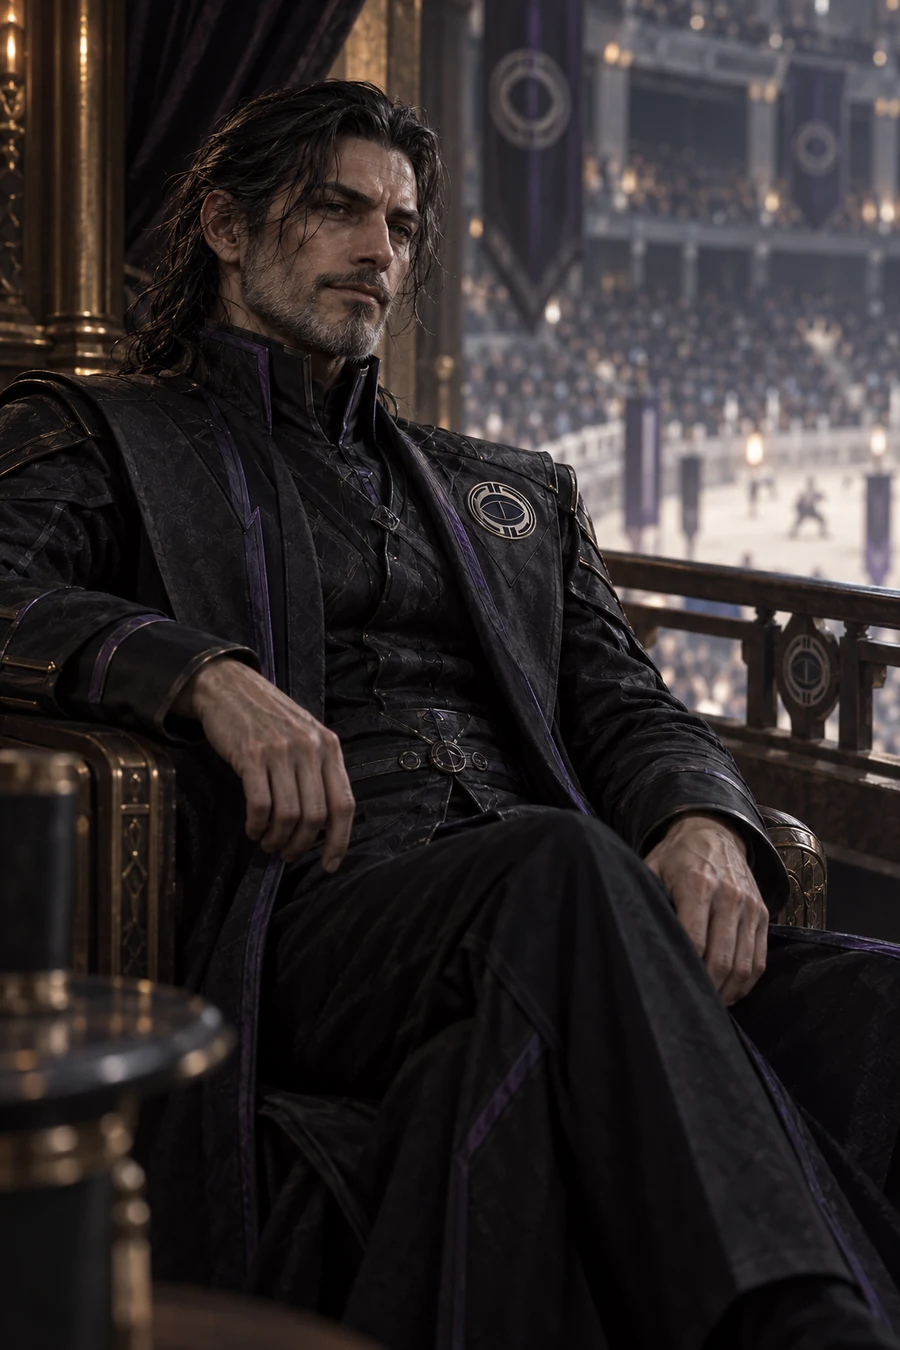
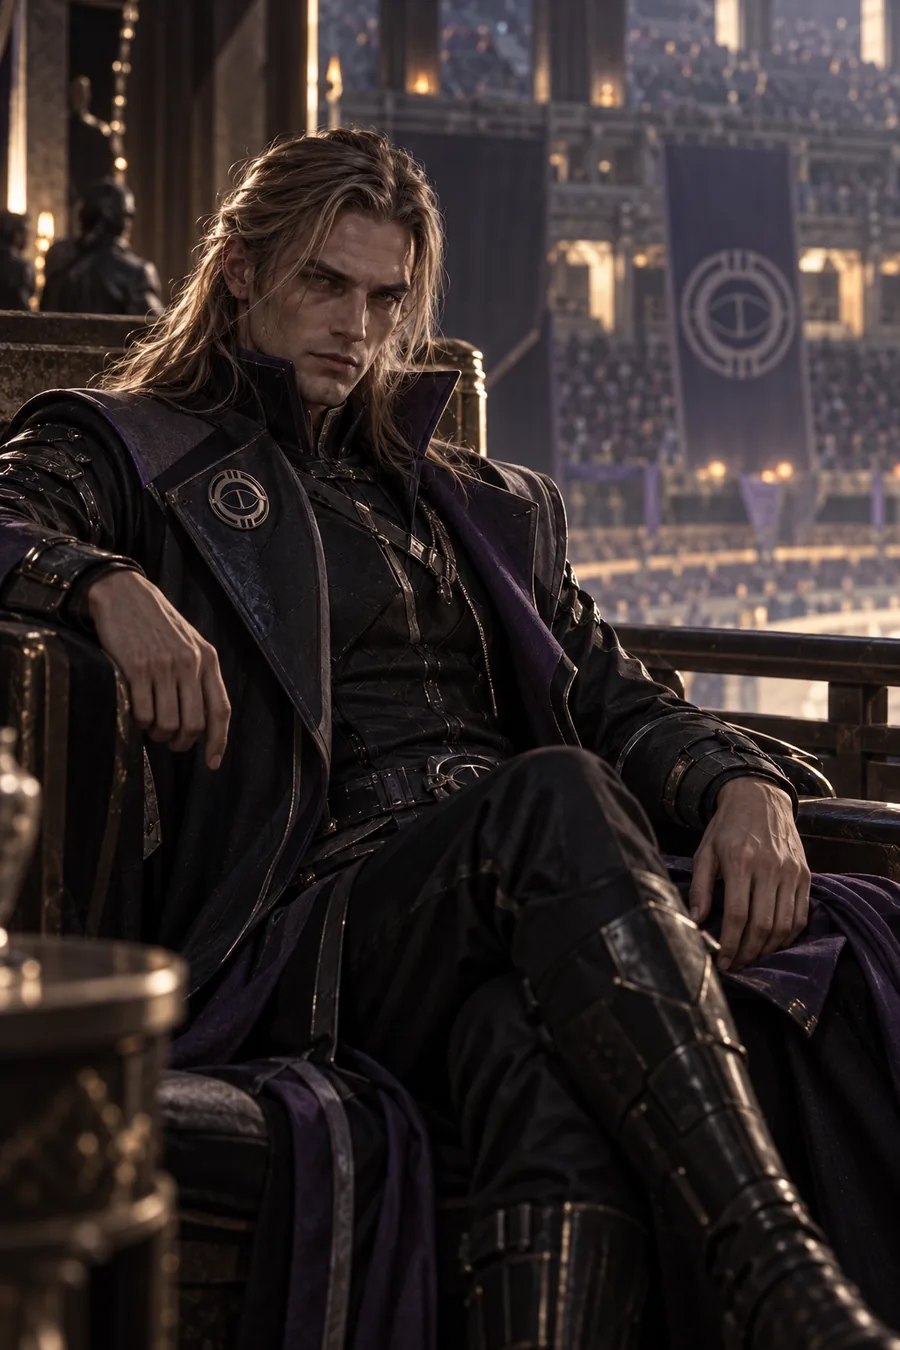
Los cuatro Sevrin con su foto aprobada
Elias, Cassian, Nethar y Duvran pasan a las fotos verticales del 21-sep, que
son la imagen canonica de los cuatro: rubios, no morenos. La de Nethar es la
toma nueva, sin el rayo en la mano. Sube SHELL_CACHE a v68 para que el service
worker vuelva a bajarlas.

diff --git a/sw.js b/sw.js
@@ -1,6 +1,6 @@
 // REGLA (heredada del Libro I): todo cambio a index.html, styles.css, content.js,
 // app.js o nieve.js exige subir SHELL_CACHE antes de publicar.
-const SHELL_CACHE = "el-ciclo-inmovil-libro2-shell-v67";
+const SHELL_CACHE = "el-ciclo-inmovil-libro2-shell-v68";
 // Mismo nombre que AUDIO_CACHE en app.js ("Guardar sin conexión"). Si no
 // coinciden, el activate de abajo borra los capitulos guardados. No subirlo sin
 // motivo: vacia lo que cada oyente guardo.
